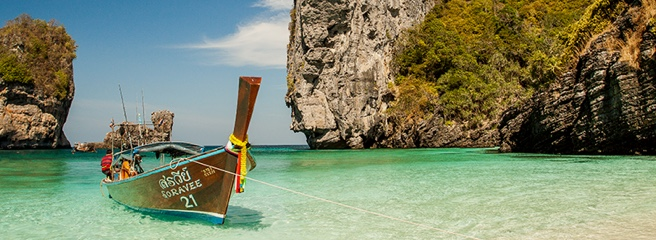
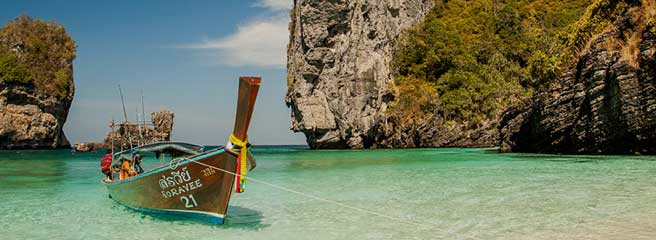
homepage styling

diff --git a/dev/sass/main.scss b/dev/sass/main.scss
@@ -113,6 +113,10 @@ h4 {
 	}
 }
 
+input {
+	font-family: 'Open Sans', sans-serif;
+}
+
 label {
 	display: block;
 	margin-bottom: 4px;
@@ -162,11 +166,15 @@ label {
 	transition: background-color 0.3s;
 	cursor: pointer;
 	font-weight: 300;
-	letter-spacing: 0.3px;
+	letter-spacing: 1;
 
 	&.inverted {
 		border: solid 3px #ffffff;
 		background-color: transparent;
+
+		&:hover {
+			background: rgba(0,0,0, 0.05);
+		}
 	}
 
 	&:hover {
@@ -181,11 +189,12 @@ label {
 .banner {
 	width: 100%;
 	height: 100vh;
-	max-height: 600px;
-	background-image: url("../assets/banner-bg.jpg");
+	max-height: 560px;
+	background-image: url("../assets/banner-bg2.jpg");
 	background-size: cover;
-	background-position: center bottom;
+	background-position: center;
 	position: relative;
+	margin-bottom: -1px;
 }
 
 .banner--text {
@@ -194,11 +203,14 @@ label {
 	left:50%;
 	transform: translate(-50%, -50%);
 	width: 100%;
-	max-width: 800px;
+	max-width: 600px;
 	text-align: center;
 
 	h1 {
 		color: $color--50;
+		line-height: 3.5rem;
+		letter-spacing: 1;
+		font-weight:300;
 	}
 }
 
@@ -224,7 +236,9 @@ label {
 			padding: 1.5rem 1.25rem;
 		    -webkit-transition: color 0.5s;
 		    transition: color 0.5s;
-		    letter-spacing: 1px;
+		    letter-spacing: 2;
+		    font-weight: 300;
+		    font-size: 14px;
 
 			@media (max-width: 992px) {
 				text-align: center;	
@@ -242,7 +256,7 @@ label {
 
 .navbar-brand {
 	img {
-		width: 200px;
+		width: 160px;
 	}
 }
 
@@ -254,13 +268,14 @@ label {
 
 .navbar--container {
 	z-index:1;
-	position: absolute;
+	position: relative;
 	width: 100%;
 	background-color: $color--900;
 }
 
 .navbar-toggler {
 	top: 20px;
+	color: $color--50;
 }
 
 
@@ -355,6 +370,11 @@ label {
 	hr {
 		border-top: 1px solid $color--50;
 		width: 100%;
+	}
+
+	h5 {
+		letter-spacing: 1;
+		font-weight: 400;
 	}
 
 	@media (max-width: 768px) {
